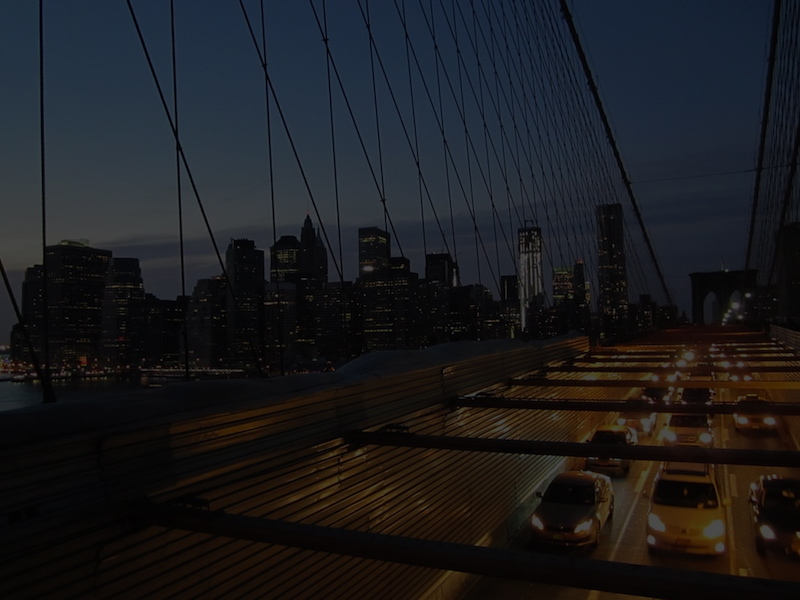
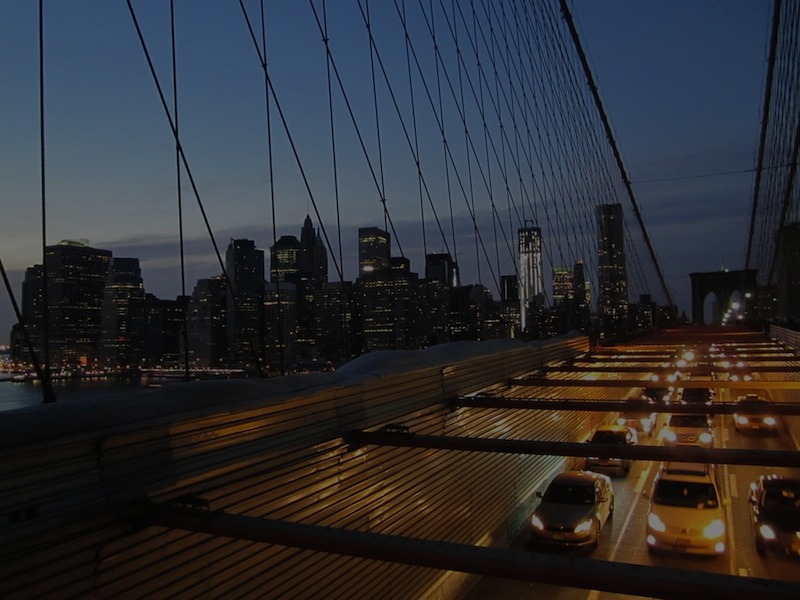
Updated domain name, year, removed extra images

diff --git a/index.html b/index.html
@@ -4,18 +4,18 @@
 		<meta charset="UTF-8" />
 		<meta name="viewport" content="width=device-width, initial-scale=1.0"> 
 		<title>Carrie MacDonald | Design & Development</title>
-		<meta name="dcterms.dateCopyrighted" content="2014">
+		<meta name="dcterms.dateCopyrighted" content="2016">
 		<meta name="dcterms.rights" content="All rights reserved">
 		<meta name="dcterms.rightsHolder" content="Carrie MacDonald">
 		<meta name="description" content="Modern web design and development">
 		<meta name="author" content="Carrie MacDonald">
 		<meta property="og:description" content="Modern web design and development">
-		<meta property="og:image" content="http://carrie-macdonald.com/img/cmdev.jpg">
+		<meta property="og:image" content="http://carriem.tech/img/cmdev.jpg">
 		<meta property="og:image:type" content="image/jpeg" />
 		<meta property="og:image:width" content="672" />
 		<meta property="og:image:height" content="551" />
 		<meta property="og:site_name" content="Carrie MacDonald | Design & Development">
-		<meta property="og:url" content="http://carrie-macdonald.com/">
+		<meta property="og:url" content="http://carriem.tech/">
 		<link rel="shortcut icon" href="favicon.ico" type="image/x-icon">
 		<link rel="icon" href="favicon.ico" type="image/x-icon">
 		<link href='http://fonts.googleapis.com/css?family=Cabin:600' rel='stylesheet' type='text/css'>
@@ -26,7 +26,7 @@
 		  m=s.getElementsByTagName(o)[0];a.async=1;a.src=g;m.parentNode.insertBefore(a,m)
 		  })(window,document,'script','//www.google-analytics.com/analytics.js','ga');
 
-		  ga('create', 'UA-52091189-1', 'carrie-macdonald.com');
+		  ga('create', 'UA-52091189-1', 'carriem.tech');
 		  ga('send', 'pageview');
 		</script>
 	</head>
@@ -64,8 +64,8 @@
 						<li><a href="https://github.com/spongebobsquaredance" class="icon-github"></a></li>
 					</ul>
 				</div>
-				<div class="email"><a href="mailto:cm@carrie-macdonald.com">cm@carrie-macdonald.com</a></div>
-				<h6>&#169; 2014 Carrie MacDonald</h6>
+				<div class="email"><a href="mailto:cm@carriem.tech">cm@carriem.tech</a></div>
+				<h6>&#169; 2016 Carrie MacDonald</h6>
 			</div>
 		</footer>
 	</body>

diff --git a/main.css b/main.css
@@ -163,14 +163,12 @@ header {
 	-webkit-font-smoothing: antialiased;
 }
 .psite {
-	background-image: url('img/brooklynbridge1.jpg');
-	-webkit-background-size: cover cover;
+	background-image: url('img/brooklynbridge.jpg');
 	background-size: cover;
 	background-position: center center;
 }
 .mjsite {
-	background-image: url('img/musicjrnl1.jpg');
-	-webkit-background-size: cover cover;
+	background-image: url('img/musicjrnl.jpg');
 	background-size: cover;
 }
 
